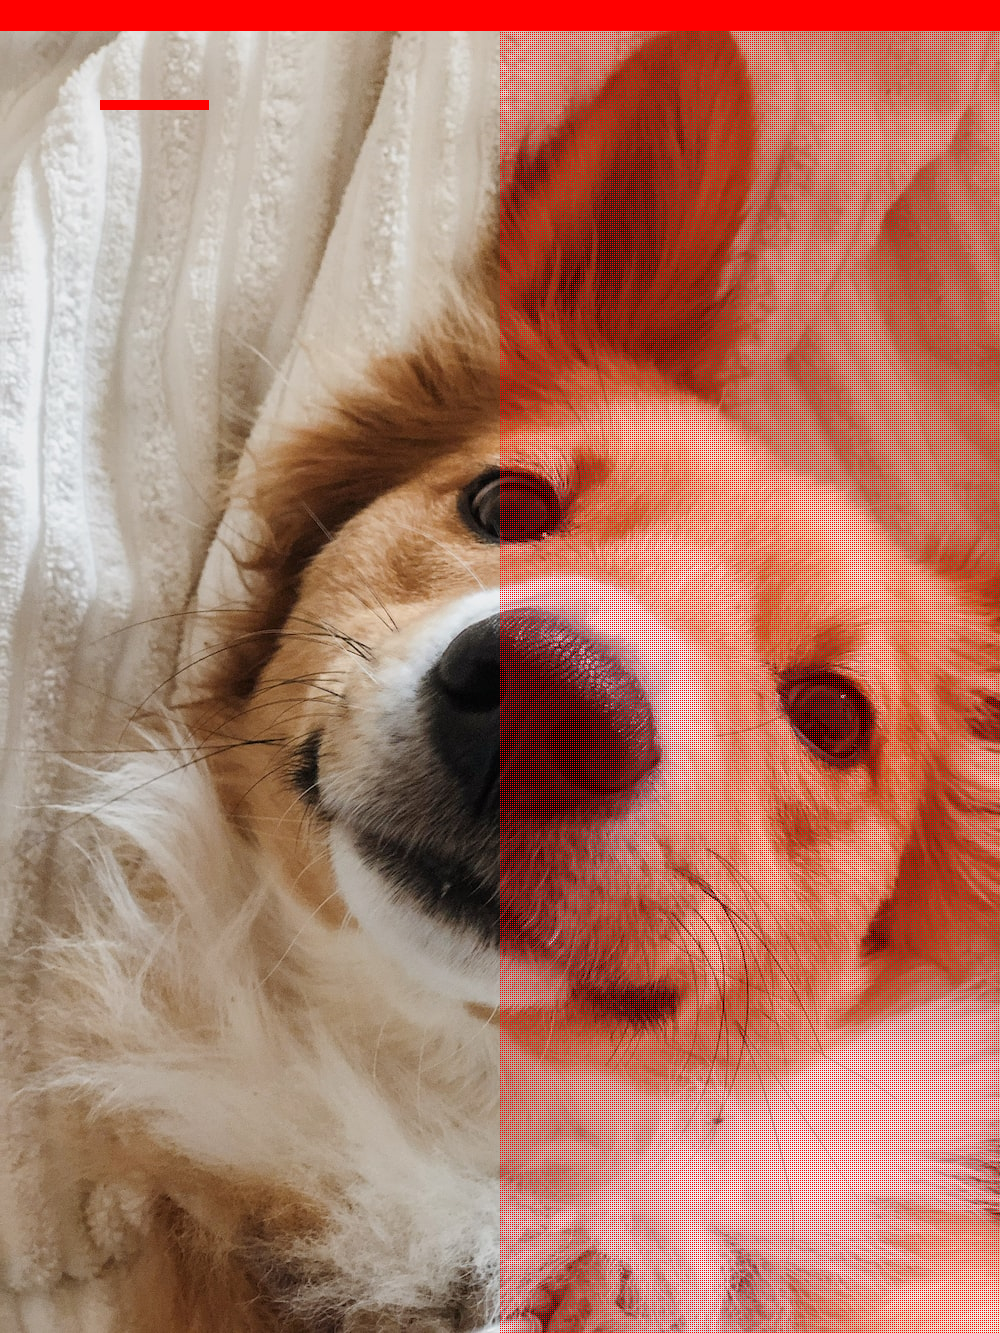
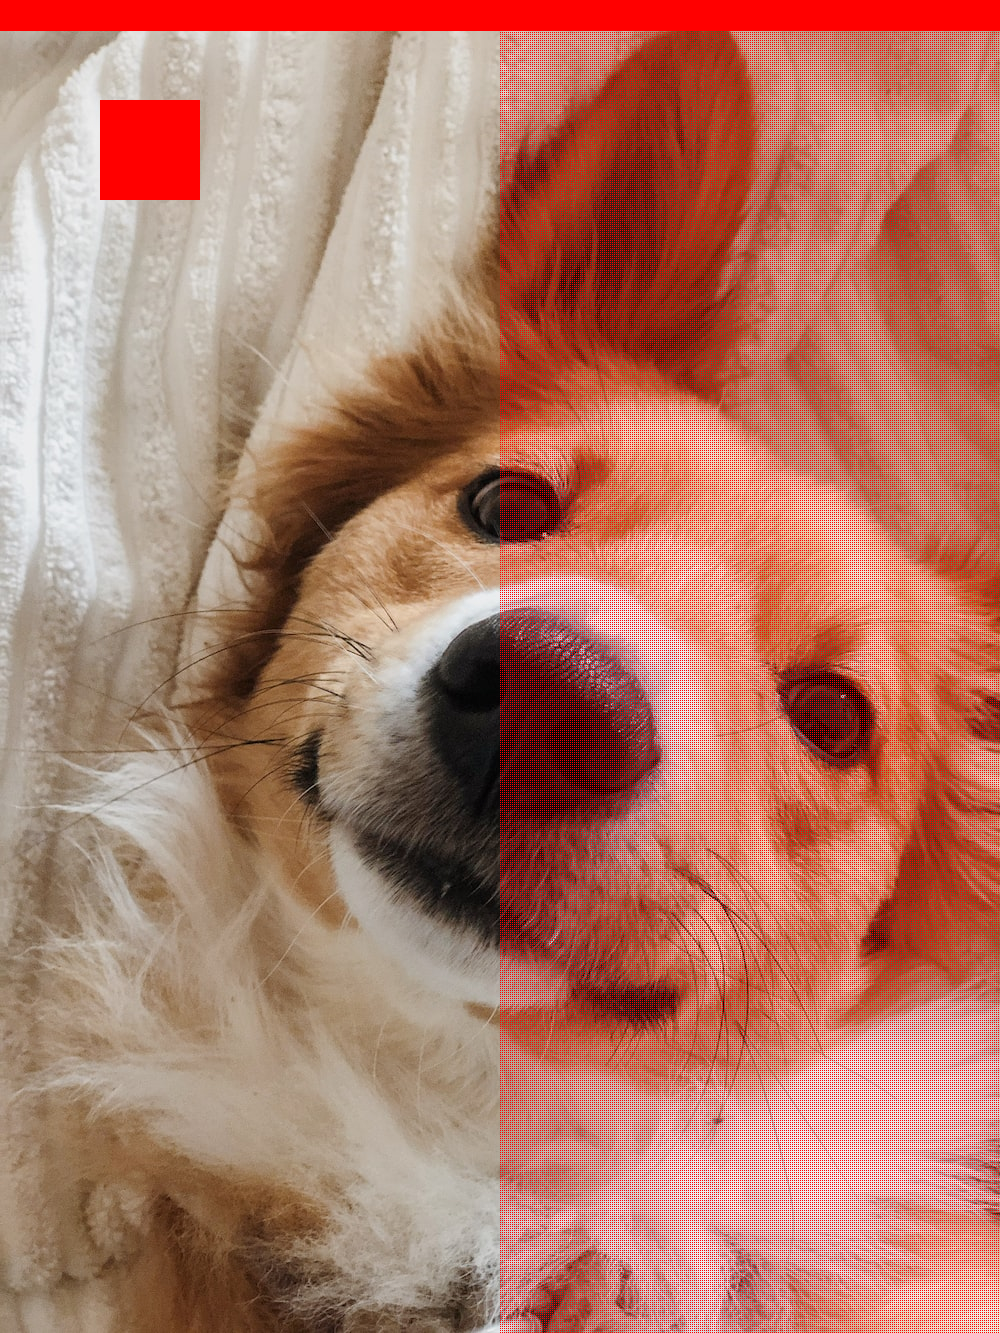
add comment

Changed region(s): [[0.093, 0.0615, 0.217, 0.1538]]

diff --git a/lecture 16/l16.py b/lecture 16/l16.py
@@ -72,20 +72,20 @@ Image.fromarray(image_array).save("dog.png")
 #plot.imshow(image_array)
 #plot.show()
 
-''' rita en röd ruta 10x10 pixlar, posistion 100x100 '''
+''' rita en röd ruta 100x100 pixlar, posistion 100x100 '''
 image = Image.open("dog.png")
 # pixel_color före:
 pixel_value = image.getpixel((101, 101))
-print(pixel_value)
+print("Pixel färg innan mod ", pixel_value)
 
-for i in range(109):
-    for j in range(10):
+for i in range(100):
+    for j in range(100):
         image.putpixel((100+i, 100+j), new_color)
 
 image.save("changed_dog.png")
 # pixeö_color efter:
 pixel_value = image.getpixel((101, 101))
-print(pixel_value)
+print("Pixel efter mod till röd: ",pixel_value)
 
 
 ## modifiera bilden
